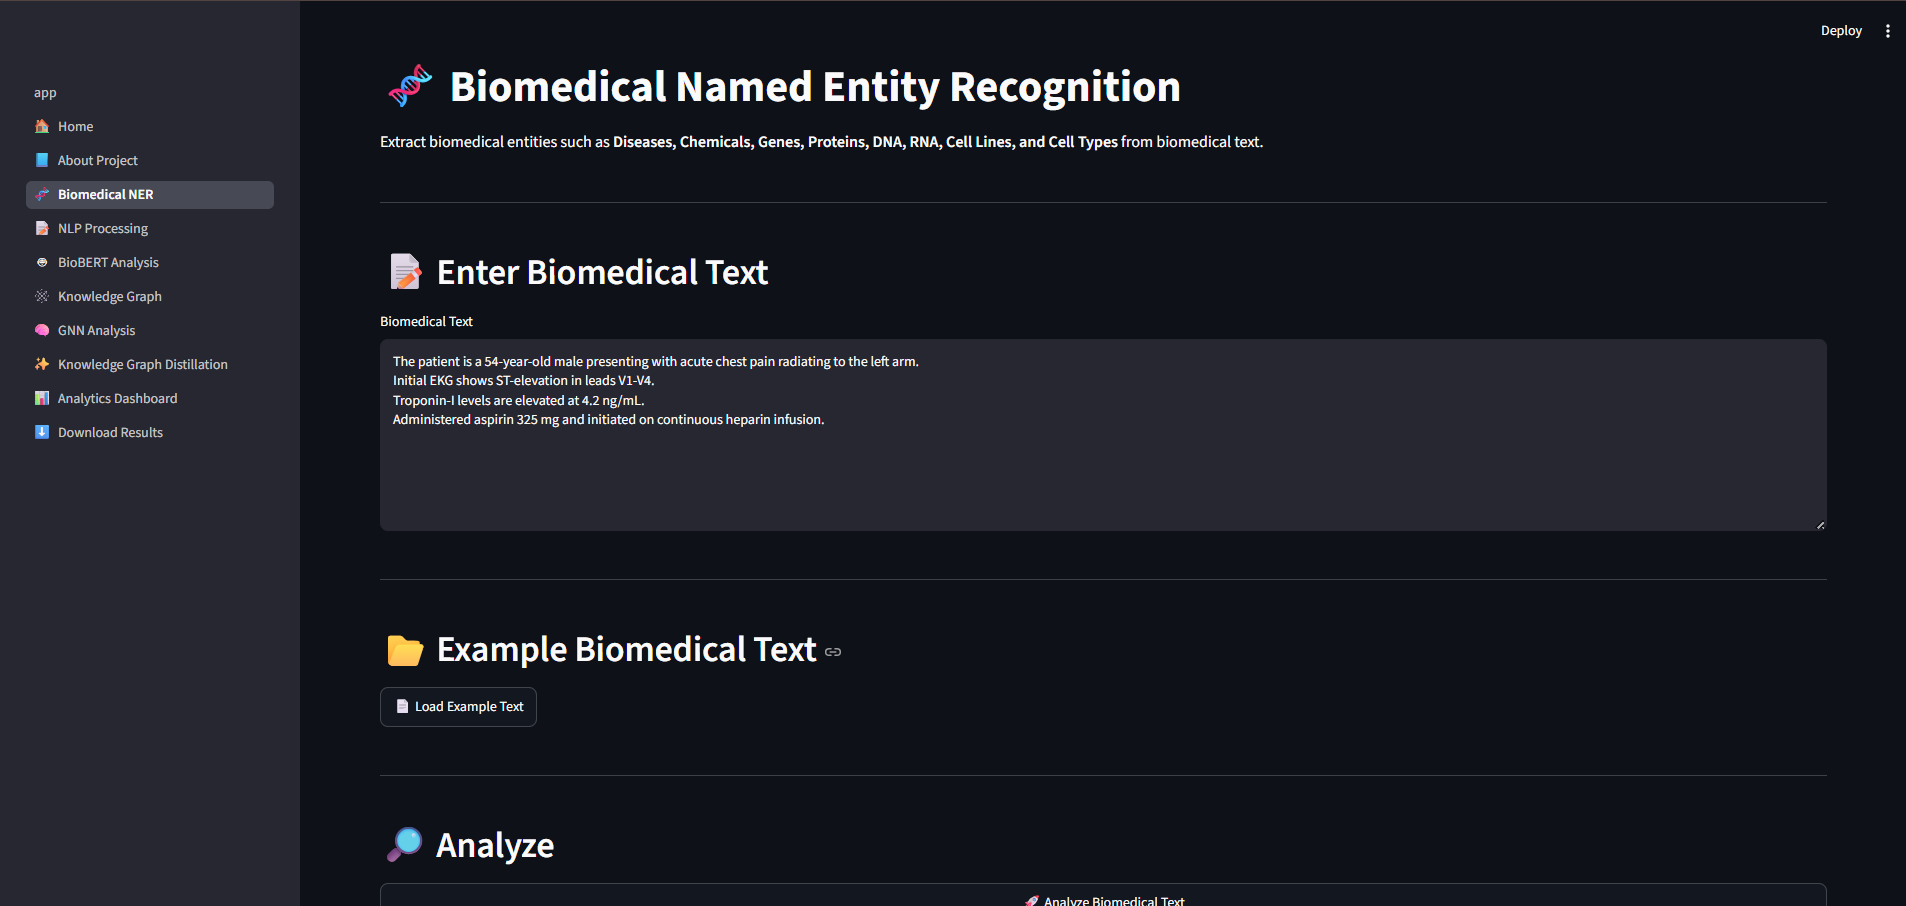
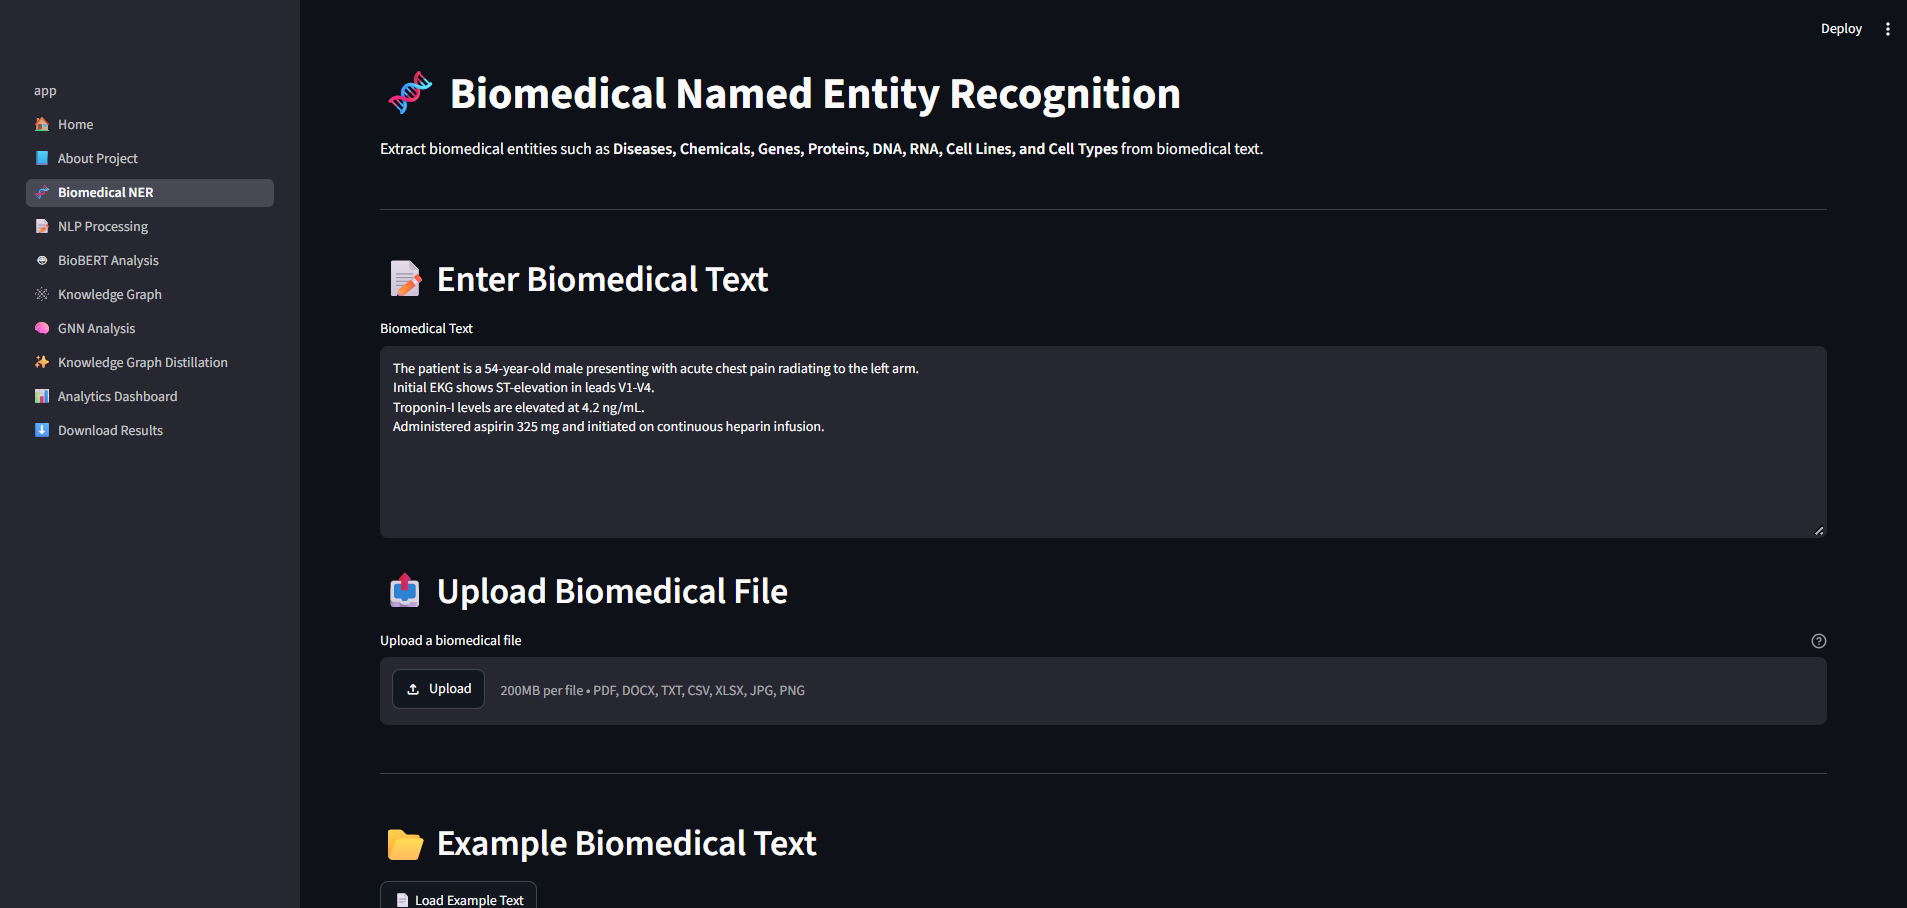
Update README for biomedical file upload

diff --git a/README.md b/README.md
@@ -14,7 +14,7 @@ An AI-powered biomedical text analysis platform that integrates Natural Language
 
 # 📖 Project Overview
 
-KoGNER is an AI-powered biomedical text analysis platform developed as a final-year Computer Science (Data Science) project. The system combines Natural Language Processing (NLP), BioBERT, Biomedical Named Entity Recognition (NER), Knowledge Graph Construction, Graph Neural Networks (GNNs), and Knowledge Graph Distillation into a single interactive application.
+KoGNER is an AI-powered biomedical text analysis platform developed as a final-year Computer Science (Data Science) project. The system combines Natural Language Processing (NLP), a pretrained Biomedical NER model, Knowledge Graph Construction, Graph Neural Networks (GNNs), and Knowledge Graph Distillation into a single interactive application.
 
 The platform processes biomedical text to identify important medical entities such as diseases, drugs, symptoms, procedures, therapies, and biological structures. These entities are transformed into a knowledge graph that captures semantic relationships between them. A Graph Neural Network is then applied to analyze the graph structure, followed by a Knowledge Graph Distillation module that reduces graph complexity while preserving essential information.
 
@@ -25,7 +25,7 @@ KoGNER provides an intuitive Streamlit-based interface with interactive visualiz
 # 🎯 Project Objectives
 
 - Develop an end-to-end biomedical text analysis platform.
-- Perform biomedical named entity recognition using BioBERT.
+- Perform biomedical named entity recognition using the pretrained Clinical-AI-Apollo/Medical-NER model.
 - Apply NLP preprocessing and linguistic analysis.
 - Construct semantic knowledge graphs from extracted entities.
 - Analyze graph structures using Graph Neural Networks (GNNs).
@@ -47,6 +47,9 @@ KoGNER provides an intuitive Streamlit-based interface with interactive visualiz
 - 📥 Downloadable Results (CSV & Graph Outputs)
 - 🌐 Modern Multi-Page Streamlit Interface
 - 📈 Interactive Charts and Visualizations
+- 📤 Multi-Format Biomedical File Upload
+- 📄 PDF, DOCX, TXT, CSV, XLSX File Support
+- 🖼 Image Text Extraction using OCR
 
 ---
 
@@ -57,30 +60,44 @@ biomedical text is processed through entity recognition, linguistic analysis,
 graph construction, graph analysis, and knowledge graph distillation.
 
 ```text
-Biomedical Text
-      │
-      ▼
+Biomedical Text Input
+       │
+       ├── Manual Text Entry
+       │
+       └── File Upload
+            │
+            ├── PDF
+            ├── DOCX
+            ├── TXT
+            ├── CSV
+            ├── XLSX
+            └── JPG / JPEG / PNG → OCR
+       │
+       ▼
+Text Ready for Analysis
+       │
+       ▼
 Biomedical Named Entity Recognition
-      │
-      ▼
+       │
+       ▼
 NLP Processing
-      │
-      ▼
+       │
+       ▼
 BioBERT Analysis
-      │
-      ▼
+       │
+       ▼
 Knowledge Graph Construction
-      │
-      ▼
+       │
+       ▼
 Graph Neural Network Analysis
-      │
-      ▼
+       │
+       ▼
 Knowledge Graph Distillation
-      │
-      ▼
+       │
+       ▼
 Analytics Dashboard
-      │
-      ▼
+       │
+       ▼
 Download Results
 ```
 
@@ -95,23 +112,25 @@ knowledge graph construction, graph analysis, and knowledge graph distillation.
 ```mermaid
 flowchart TD
 
-    A[Biomedical Text Input]
+    A[Biomedical Input]
 
-    B[Biomedical Named Entity Recognition<br/>BioBERT / Medical-NER]
+    B[File Upload & Text Extraction<br/>PDF • DOCX • TXT • CSV • XLSX • Images/OCR]
 
-    C[NLP Processing<br/>Cleaning • Tokenization • Lemmatization • POS Tagging]
+    C[Biomedical Named Entity Recognition<br/>BioBERT / Medical-NER]
 
-    D[BioBERT Analysis<br/>Entity & Confidence Analysis]
+    D[NLP Processing<br/>Cleaning • Tokenization • Lemmatization • POS Tagging]
 
-    E[Knowledge Graph Construction<br/>Nodes & Relationships]
+    E[BioBERT Analysis<br/>Entity & Confidence Analysis]
 
-    F[GNN Analysis<br/>Graph Metrics & Node Importance]
+    F[Knowledge Graph Construction<br/>Nodes & Relationships]
 
-    G[Knowledge Graph Distillation<br/>Graph Simplification]
+    G[GNN Analysis<br/>Graph Metrics & Node Importance]
 
-    H[Analytics Dashboard<br/>Statistics & Visualizations]
+    H[Knowledge Graph Distillation<br/>Graph Simplification]
 
-    I[Download Results<br/>CSV & Analysis Outputs]
+    I[Analytics Dashboard<br/>Statistics & Visualizations]
+
+    J[Download Results<br/>CSV & Analysis Outputs]
 
     A --> B
     B --> C
@@ -121,6 +140,7 @@ flowchart TD
     F --> G
     G --> H
     H --> I
+    I --> J
 ```
 
 The architecture is implemented as a multi-page Streamlit application, with
@@ -200,6 +220,7 @@ KoGNER_Project/
 ├── utils/
 │   ├── config.py
 │   ├── constants.py
+│   ├── file_extractor.py
 │   ├── helpers.py
 │   ├── logger.py
 │   ├── sample_predictions.py
@@ -228,6 +249,10 @@ KoGNER_Project/
 | Graph Processing | NetworkX |
 | Data Processing | Pandas |
 | Visualization | Matplotlib |
+| PDF Extraction | PyPDF |
+| Word Processing | python-docx |
+| Spreadsheet Processing | OpenPyXL |
+| OCR | Tesseract OCR / pytesseract |
 
 ---
 
@@ -257,7 +282,7 @@ for potential future model fine-tuning and evaluation.
 |---------|-------------|
 | 🏠 Home | Introduces the project and presents the overall workflow. |
 | 📘 About Project | Explains objectives, architecture, methodology, datasets, and frameworks. |
-| 🧬 Biomedical NER | Extracts biomedical entities from input text using BioBERT. |
+| 🧬 Biomedical NER | Accepts biomedical text or uploaded files and performs biomedical entity recognition using the pretrained Clinical-AI-Apollo/Medical-NER model. |
 | 📝 NLP Processing | Performs preprocessing, tokenization, lemmatization, and POS tagging. |
 | 🤖 BioBERT Analysis | Displays detected entities, confidence scores, and prediction analytics. |
 | 🕸 Knowledge Graph | Builds and visualizes relationships between biomedical entities. |
@@ -272,12 +297,14 @@ for potential future model fine-tuning and evaluation.
 
 - End-to-end biomedical text analysis pipeline
 - Multi-page interactive Streamlit application
-- BioBERT-powered biomedical entity recognition
+- Pretrained Biomedical NER model for entity recognition
 - Automated Knowledge Graph generation
 - Graph Neural Network (GNN) analysis
 - Knowledge Graph Distillation framework
 - Interactive dashboards with multiple visualizations
 - Exportable CSV reports and processed outputs
+- Multi-format biomedical document and image input
+- Automated text extraction and OCR
 
 ---
 
@@ -331,6 +358,49 @@ source .venv/bin/activate
 ```bash
 pip install -r requirements.txt
 ```
+
+## 5. Install Tesseract OCR
+
+Image text extraction requires Tesseract OCR.
+
+### Windows
+
+Install Tesseract OCR and make sure its installation directory is added
+to the system PATH.
+
+The default installation path is commonly:
+
+```text
+C:\Program Files\Tesseract-OCR
+```
+
+After installation, verify it with:
+
+```bash
+tesseract --version
+```
+
+The Python package `pytesseract` is included in `requirements.txt`.
+This is particularly important because `pip install pytesseract` alone does **not** install the
+Tesseract OCR executable.
+
+# 📤 Supported Input File Formats
+
+KoGNER accepts biomedical text through direct text entry or file upload.
+
+| Format  | Processing              |
+|---------|--------------------------|
+| `.txt`  | Direct text extraction   |
+| `.pdf`  | Text extraction          |
+| `.docx` | Paragraph extraction     |
+| `.csv`  | Cell content extraction  |
+| `.xlsx` | Worksheet content extraction |
+| `.jpg`  | OCR                      |
+| `.jpeg` | OCR                      |
+| `.png`  | OCR                      |
+
+After extraction, the text is placed into the biomedical text input area
+for review or editing before analysis.
 
 ---
 
